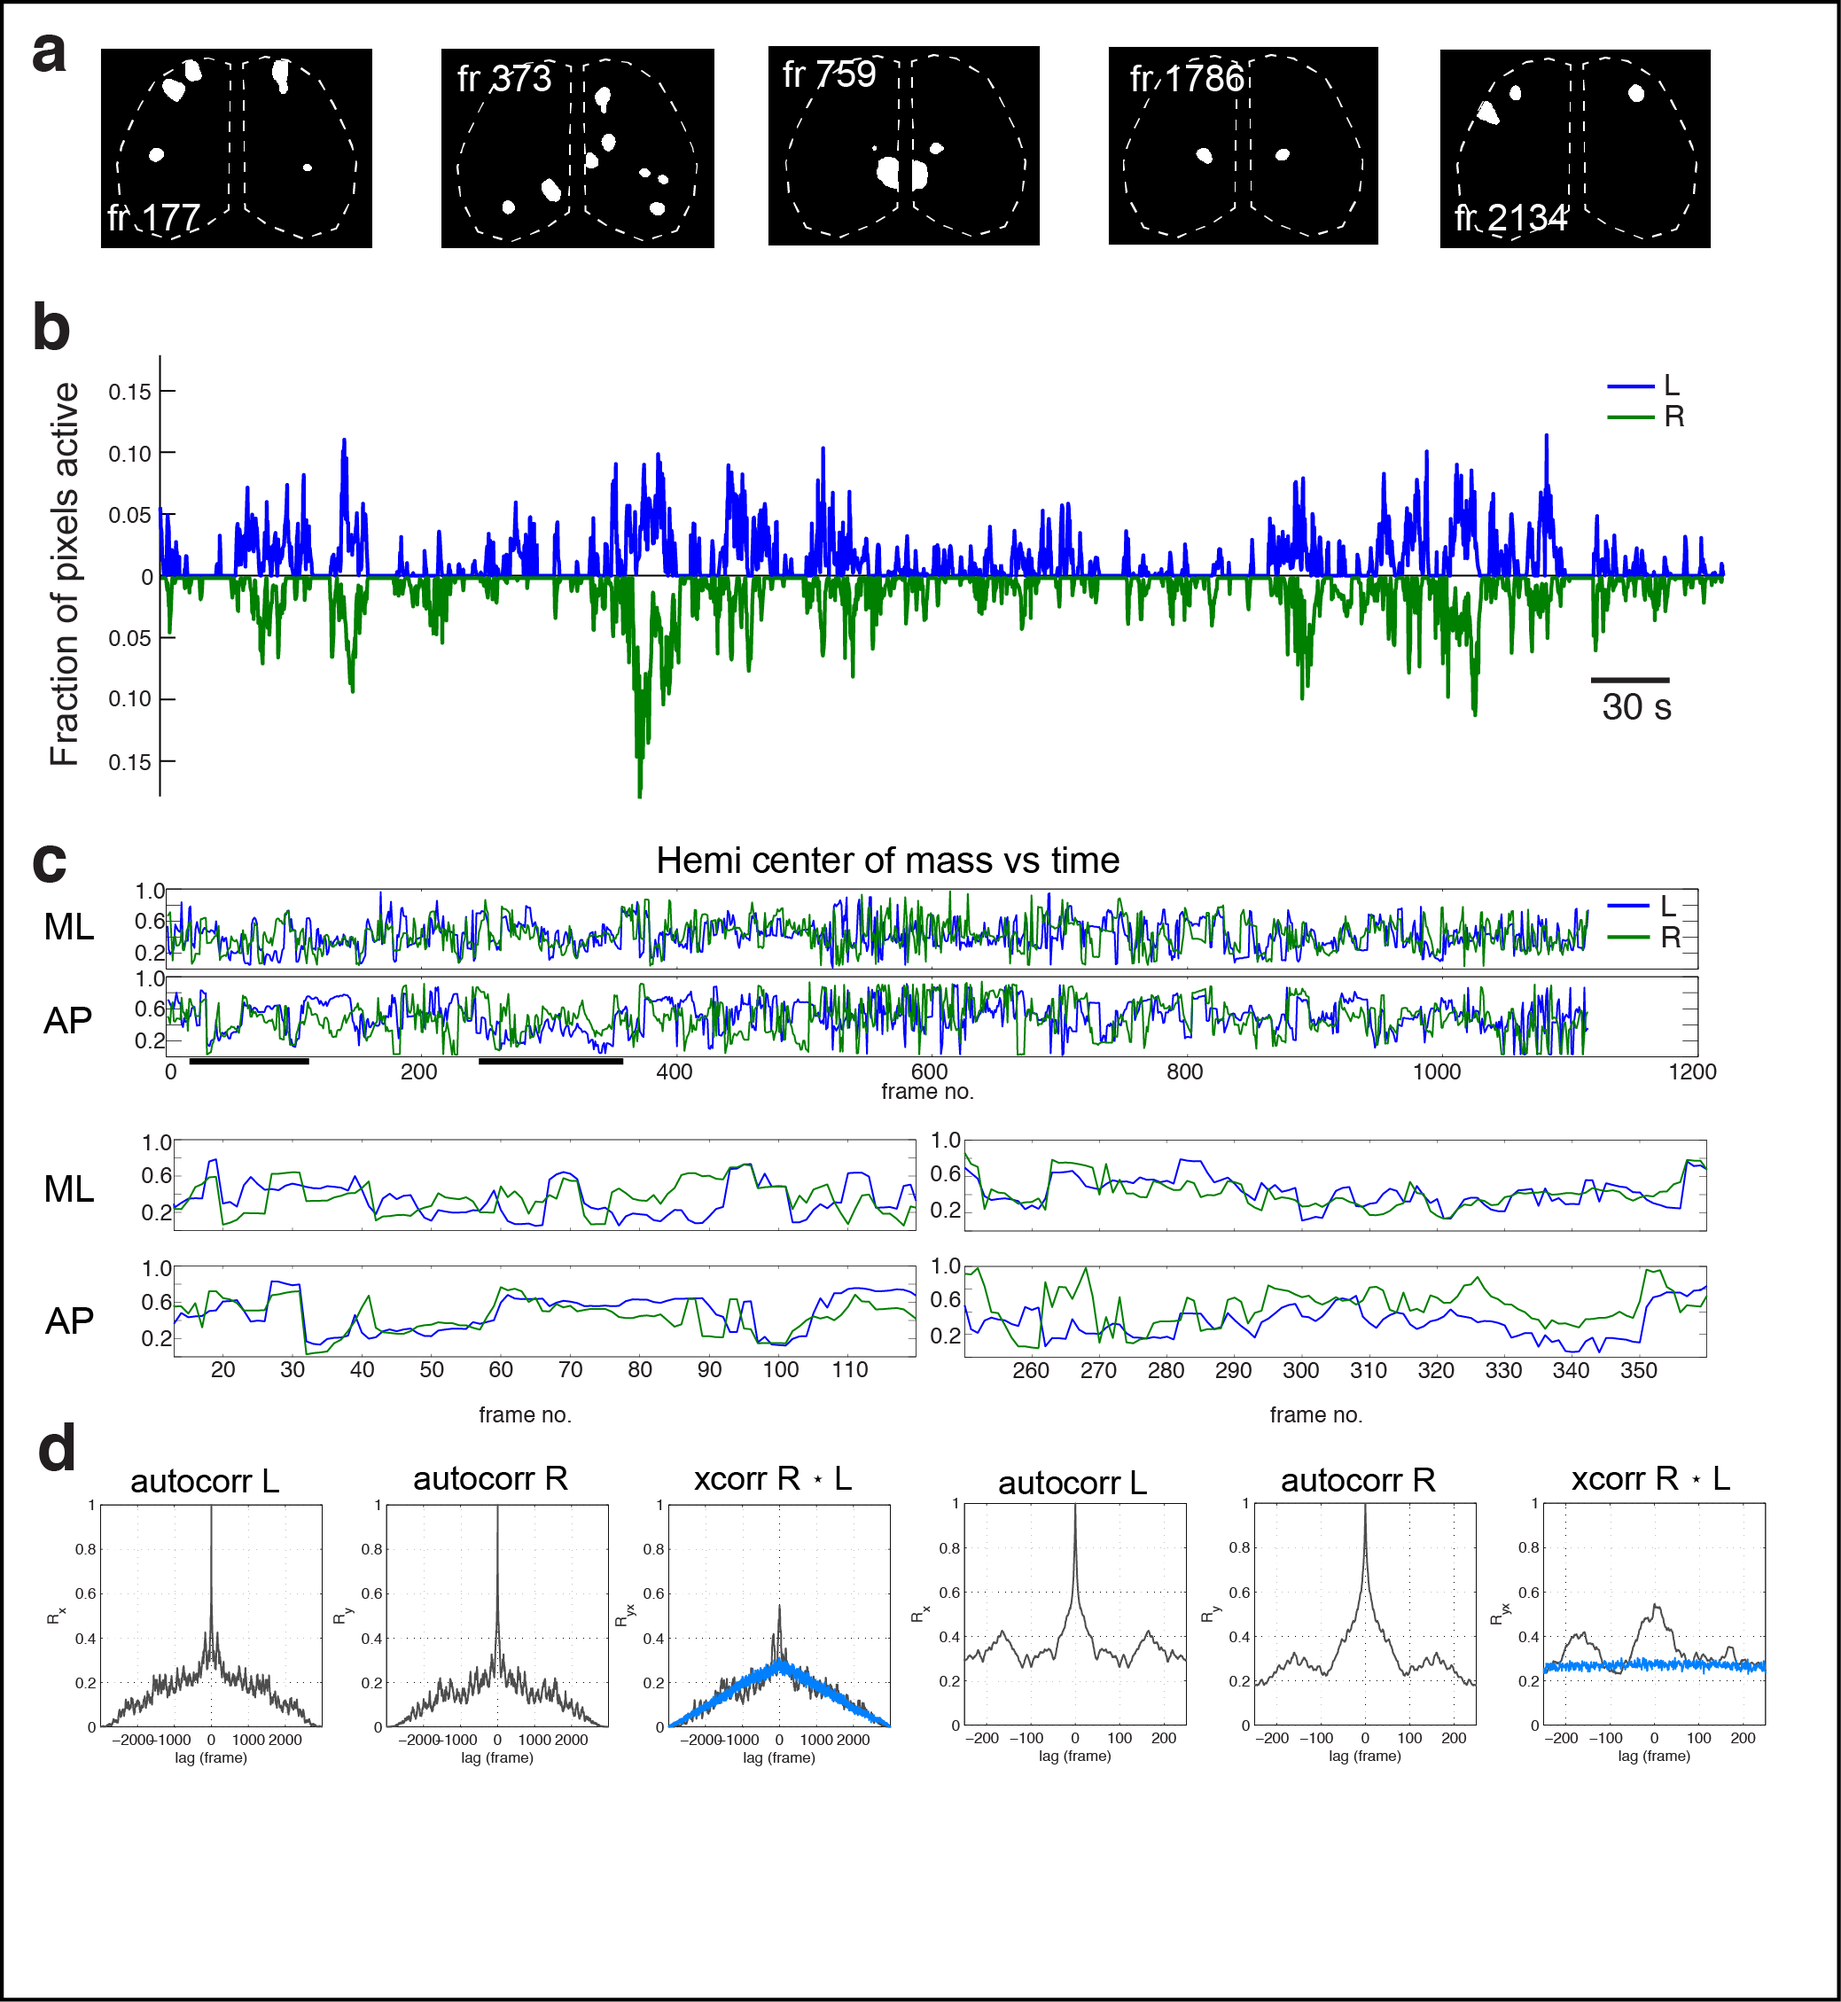
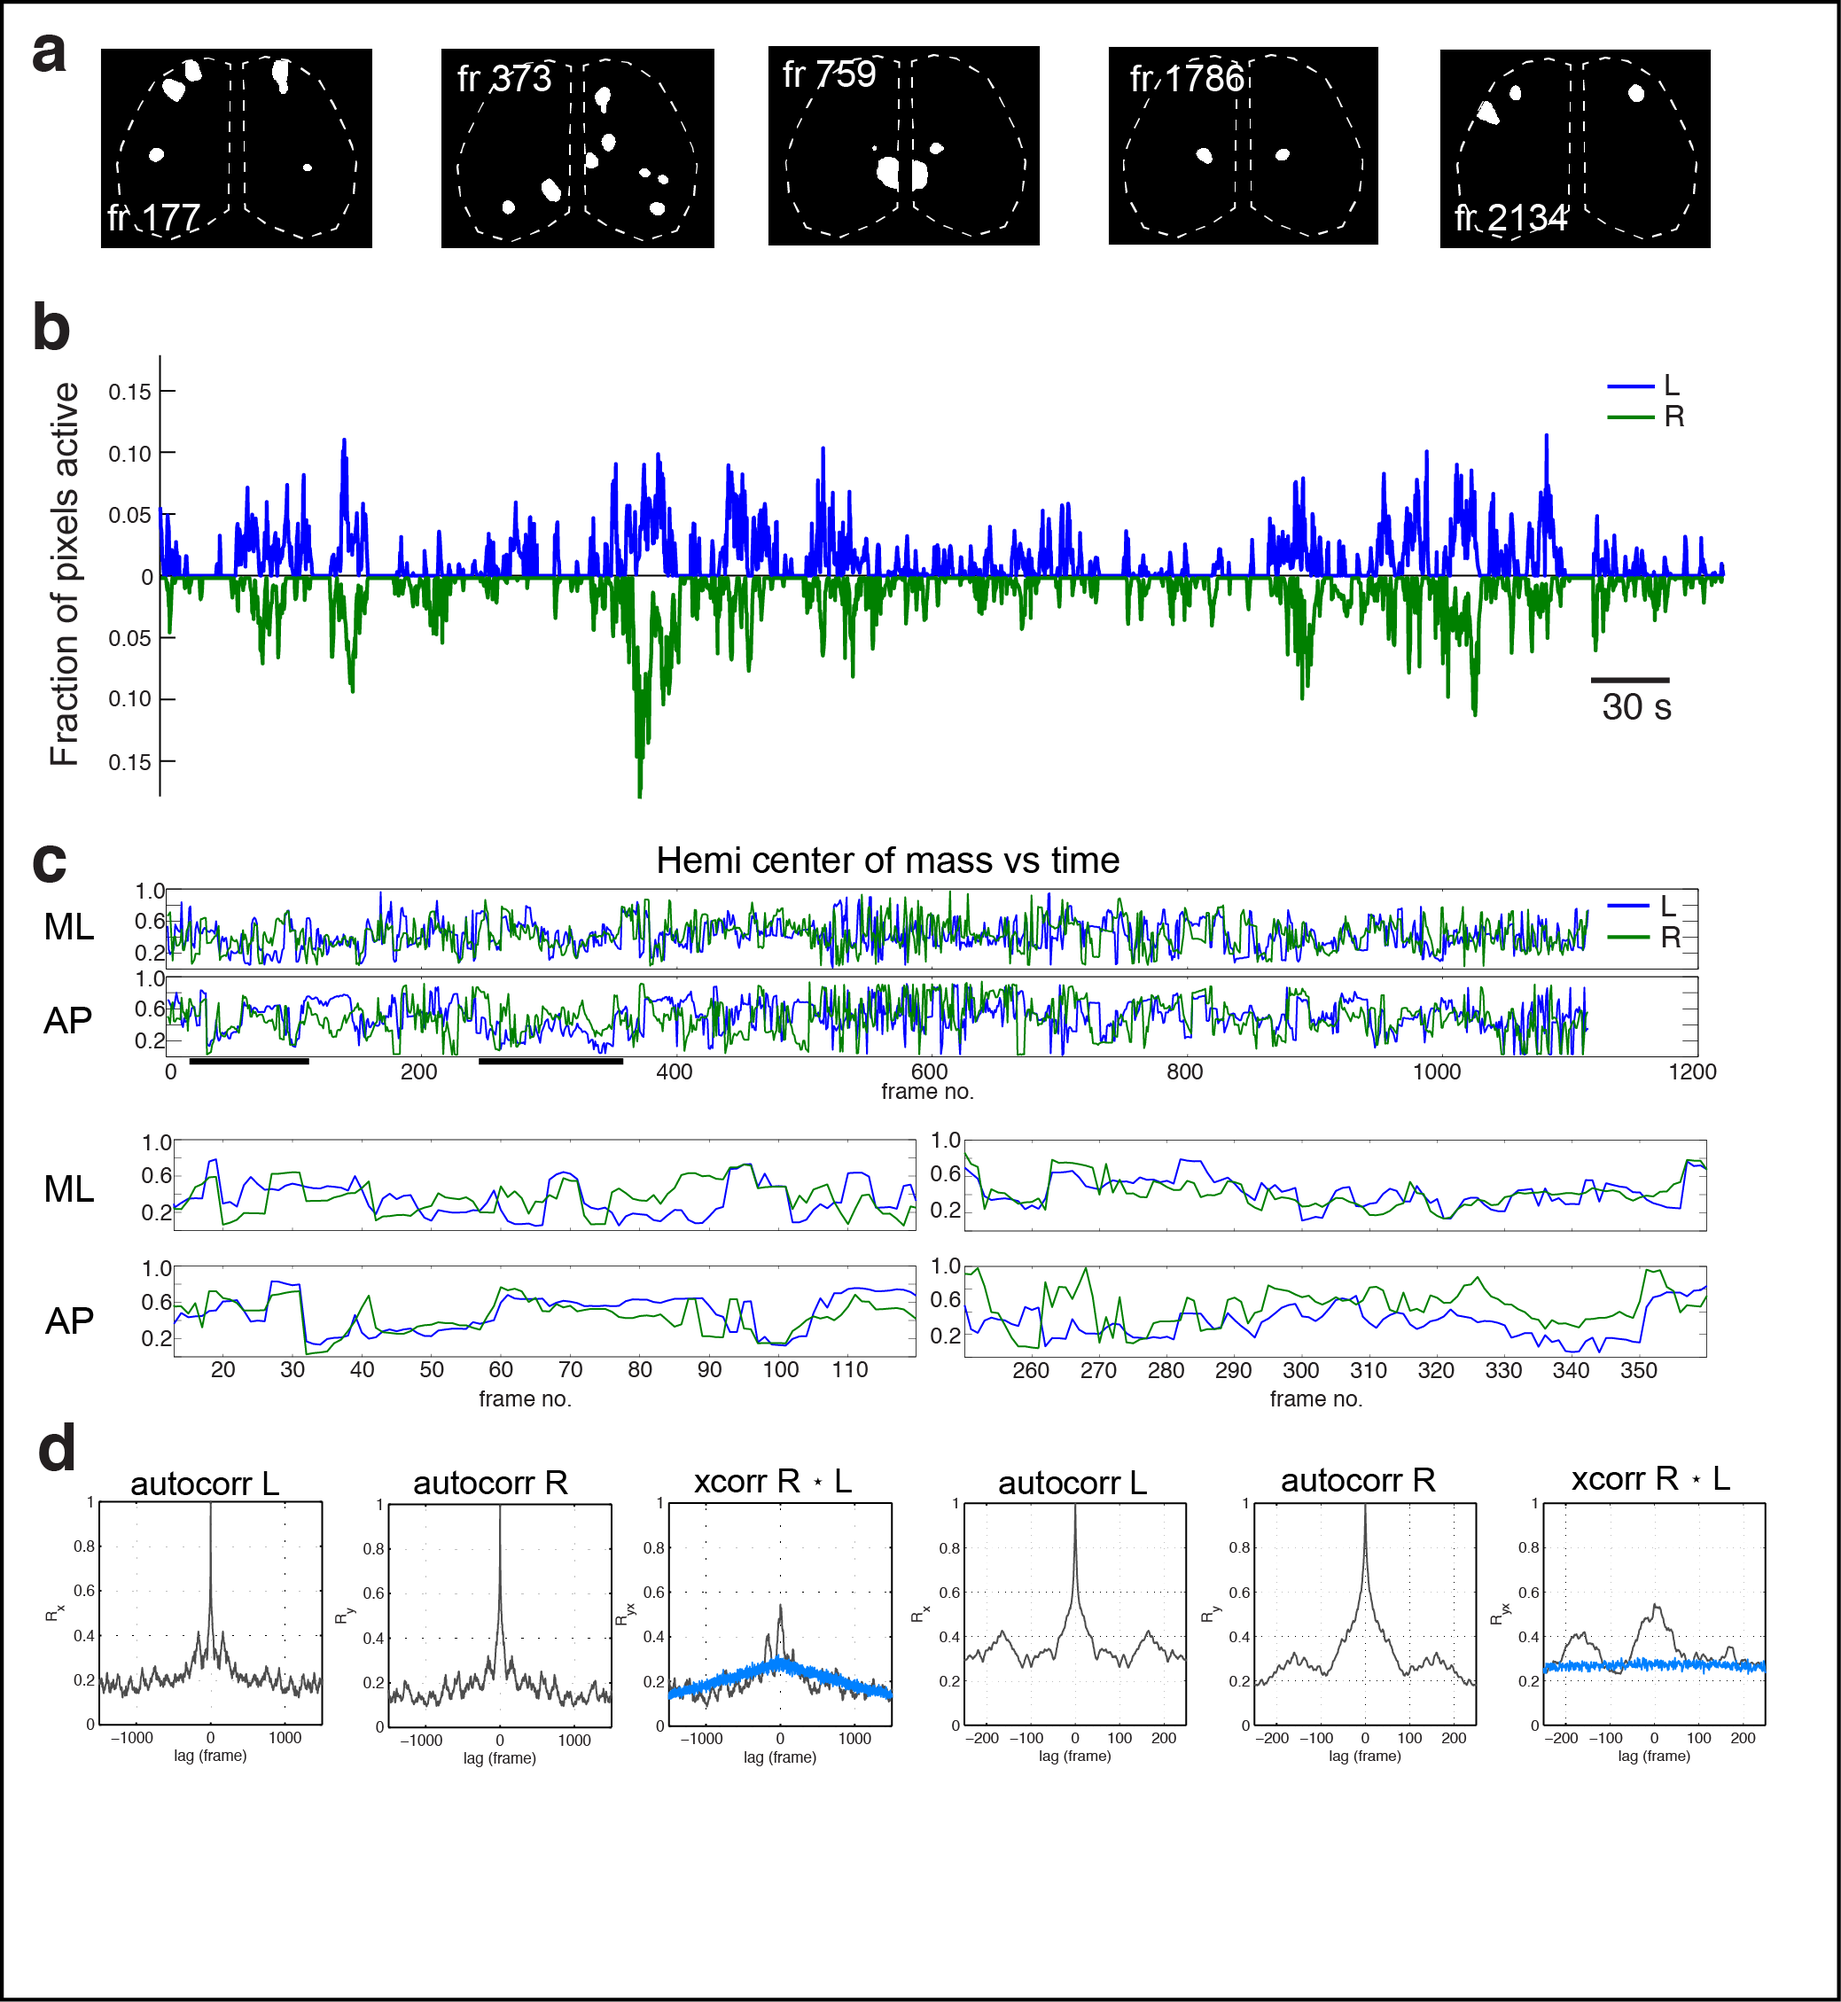
updated fig2 cortex xcorr lags and metadata in _main.md

Changed region(s): [[0.0308, 0.6817, 0.493, 0.8986], [0.6779, 0.6817, 0.7395, 0.7127], [0.3698, 0.7127, 0.4006, 0.7437]]

diff --git a/wholeBrain_main.md b/wholeBrain_main.md
@@ -144,15 +144,33 @@ lenActvFraction>0 | fracCorr | timeCorr_s | fracCorrPos | timeCorrPos_s | fracCo
 	* ![](../figures/Screen_Shot_2013-04-03_at_10.04.36_AM.png)
 --->
 
-<!---Figure 2 metadata 
+
+<!---Figure 2 metadata
+* binary mask snapshots, cropped from screen shots in [[2013-04-19_analysis]]
+	* Screen_Shot_2013-04-19_at_8.26.00_AM_fr1786.png
+	* Screen_Shot_2013-04-19_at_8.27.49_AM_fr2134.png
+	* Screen_Shot_2013-04-19_at_8.30.27_AM_fr759.png
+	* Screen_Shot_2013-04-19_at_8.30.51_AM_fr373.png
+	* Screen_Shot_2013-04-19_at_8.38.54_AM_fr177.png
 * Temporal correlation of activity between the hemispheres and preceding motor activation:  
 	* ![](../figures/Screen_Shot_2013-04-30_at_3.02.20_PM.png)
 * hemisphere active fraction traces: Screen_Shot_2013-04-08_at_8.47.19_AM.png
+* activefraction hemis AP & ML all: ![](../figures/Screen_Shot_2013-04-23_at_8.45.18_AM.png)  | 120518_07_connComponents_BkgndSubtr-60px_noWatershed-20130327-151022_d2ractiveFractionPixelLocaCorr20130423-094506.eps
+* activefraction hemis AP & ML segment: ![](../figures/Screen_Shot_2013-04-23_at_8.46.27_AM.png)
+* activefraction hemis AP & ML segment: ![](../figures/Screen_Shot_2013-04-23_at_8.51.55_AM.png)
+### Cortical activity correlated between the hemispheres and is periodic
+* hemi auto & xcorr:
+	* 2500fr lags: 120518_07_connComponents_BkgndSubtr-60px_noWatershed-20130327-151022activeFraction20130408-143100.eps
+	* 250fr lags:  120518_07_connComponents_BkgndSubtr-60px_noWatershed-20130327-151022activeFraction20130408-151655.eps
+	* 1500fr lags: 120518_07_2013-10-18_AllgoodactiveFraction20131023-145023.eps
+--->
+
+
+
+<!---Figure 3 metadata 
+* Isoflurane contour maps:
 
 ### Cortical activity and motor activity is periodic
-* hemi auto & xcorr:
-	* Screen_Shot_2013-04-08_at_2.31.33_PM.png | 120518_07_connComponents_BkgndSubtr-60px_noWatershed-20130327-151022activeFraction20130408-143100.eps
-	* Screen_Shot_2013-04-08_at_2.34.50_PM.png | 120518_07_connComponents_BkgndSubtr-60px_noWatershed-20130327-151022activeFraction20130408-151655.eps
 * Moving average signals color coded at diff lags:
 	* 120518_07_2013-09-11-225029_d2r_motorSignalFiltFilt.eps
 	* 120518_07_2013-09-11-225029_d2r_motorSignalFiltFilt.png
@@ -167,24 +185,22 @@ lenActvFraction>0 | fracCorr | timeCorr_s | fracCorrPos | timeCorrPos_s | fracCo
 	* 120518_07_connComponents_BkgndSubtr-60px_noWatershed-20130327-151022_d2rmotorSignalXCorr20130912-092426.eps
 * auto, xcorr during motor period:  
 	* 120518_07_connComponents_BkgndSubtr-60px_noWatershed-20130327-151022_d2rmotorSignalXCorr20130912-093834.eps
+* pixel activation frequency map projections: 
+	* quiet motor state: 
+		* 120518_07_connComponents_BkgndSubtr-60px_noWatershed-20130327-151022_d2rActivityMapFigContour20131016-163945-20131023_MotorQuiet_eps.png
+	* active motor state:
+		* 120518_07_connComponents_BkgndSubtr-60px_noWatershed-20130327-151022_d2rActivityMapFigContour20131016-163945-20131023_MotorActive_eps.png
 --->
 
 
-<!---Figure 3 metadata
-* binary mask snapshots, cropped from screen shots in [[2013-04-19_analysis]]
-	* Screen_Shot_2013-04-19_at_8.26.00_AM_fr1786.png
-	* Screen_Shot_2013-04-19_at_8.27.49_AM_fr2134.png
-	* Screen_Shot_2013-04-19_at_8.30.27_AM_fr759.png
-	* Screen_Shot_2013-04-19_at_8.30.51_AM_fr373.png
-	* Screen_Shot_2013-04-19_at_8.38.54_AM_fr177.png
-* activefraction hemis AP & ML all: ![](../figures/Screen_Shot_2013-04-23_at_8.45.18_AM.png)  | 120518_07_connComponents_BkgndSubtr-60px_noWatershed-20130327-151022_d2ractiveFractionPixelLocaCorr20130423-094506.eps
-* activefraction hemis AP & ML segment: ![](../figures/Screen_Shot_2013-04-23_at_8.46.27_AM.png)
-* activefraction hemis AP & ML segment: ![](../figures/Screen_Shot_2013-04-23_at_8.51.55_AM.png)
-* scatterplots:  
-	* ML Screen_Shot_2013-04-22_at_4.29.28_PM.png
-	* AP 
+<!---Figure 4 metadata
+* active fraction traces: 
 * corr matrix: orig: 120518_07_2013-09-11-225029_d2rcorrMatrix20130912-001431_fig.ai
 	* update 2013-10-03 11:04:39:
 		* 120518_07_2013-09-11-225029_d2rcorrMatrix20130930-111018.ai
 		* 120518_07_2013-09-11-225029_d2rcorrMatrix20130930-111018.eps
+	* update 2013-10-23 14:31:37:
+		* 120518_07_2013-10-18_AllgoodcorrMatrix20131018-154625.eps
+* corr graph: 
+	* 120518_07_2013-10-18_AllgoodCorrGraph20131021-144258.eps
 --->
